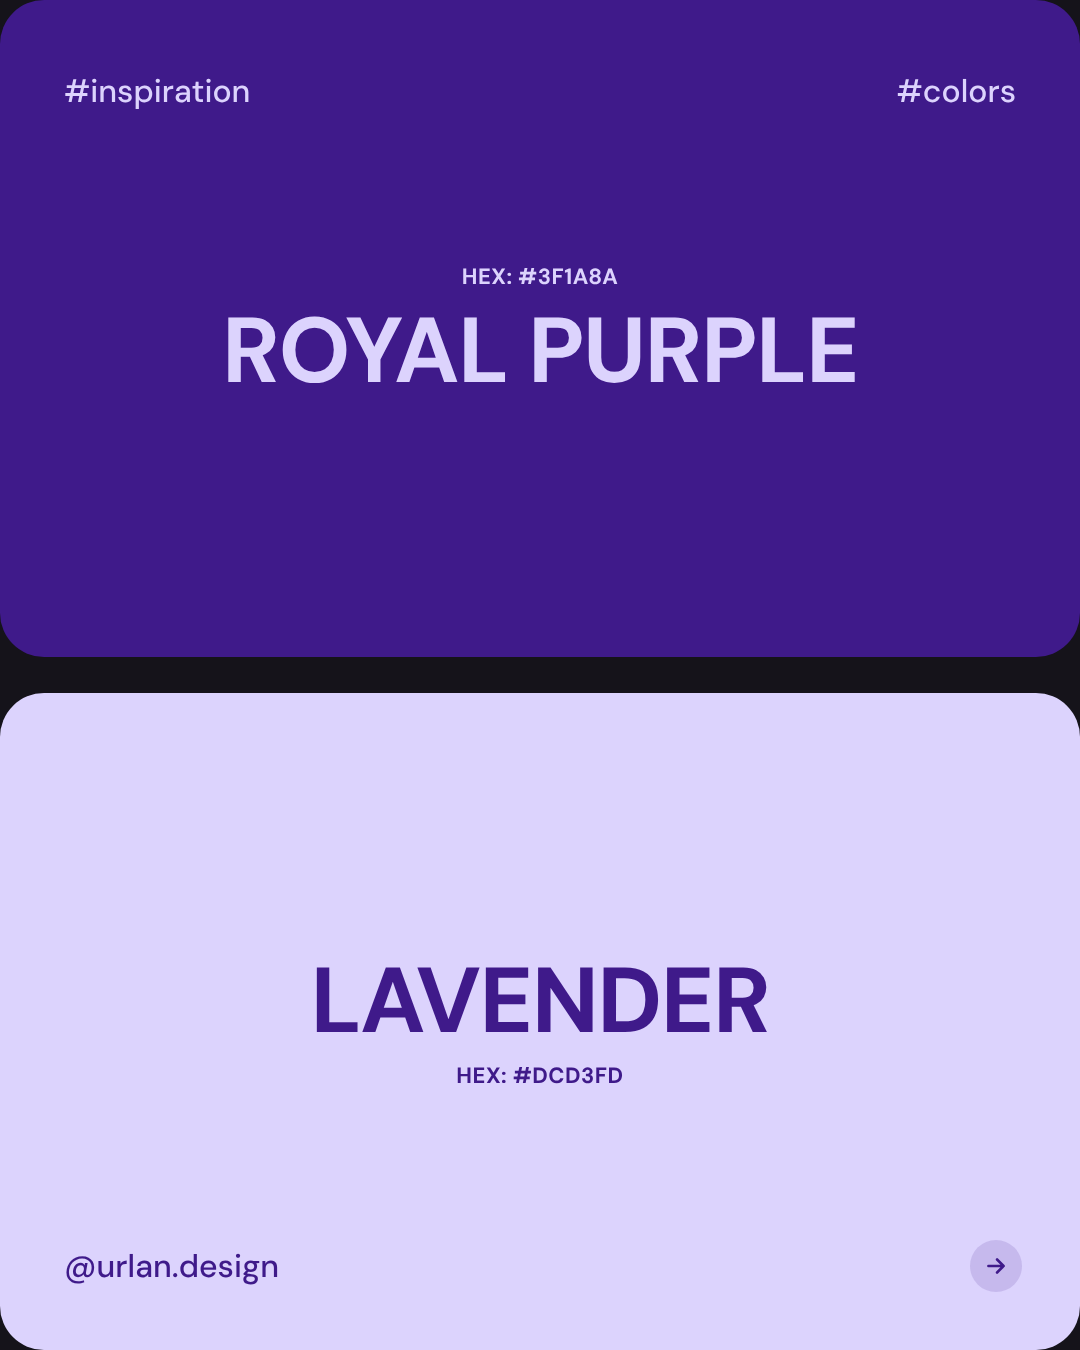
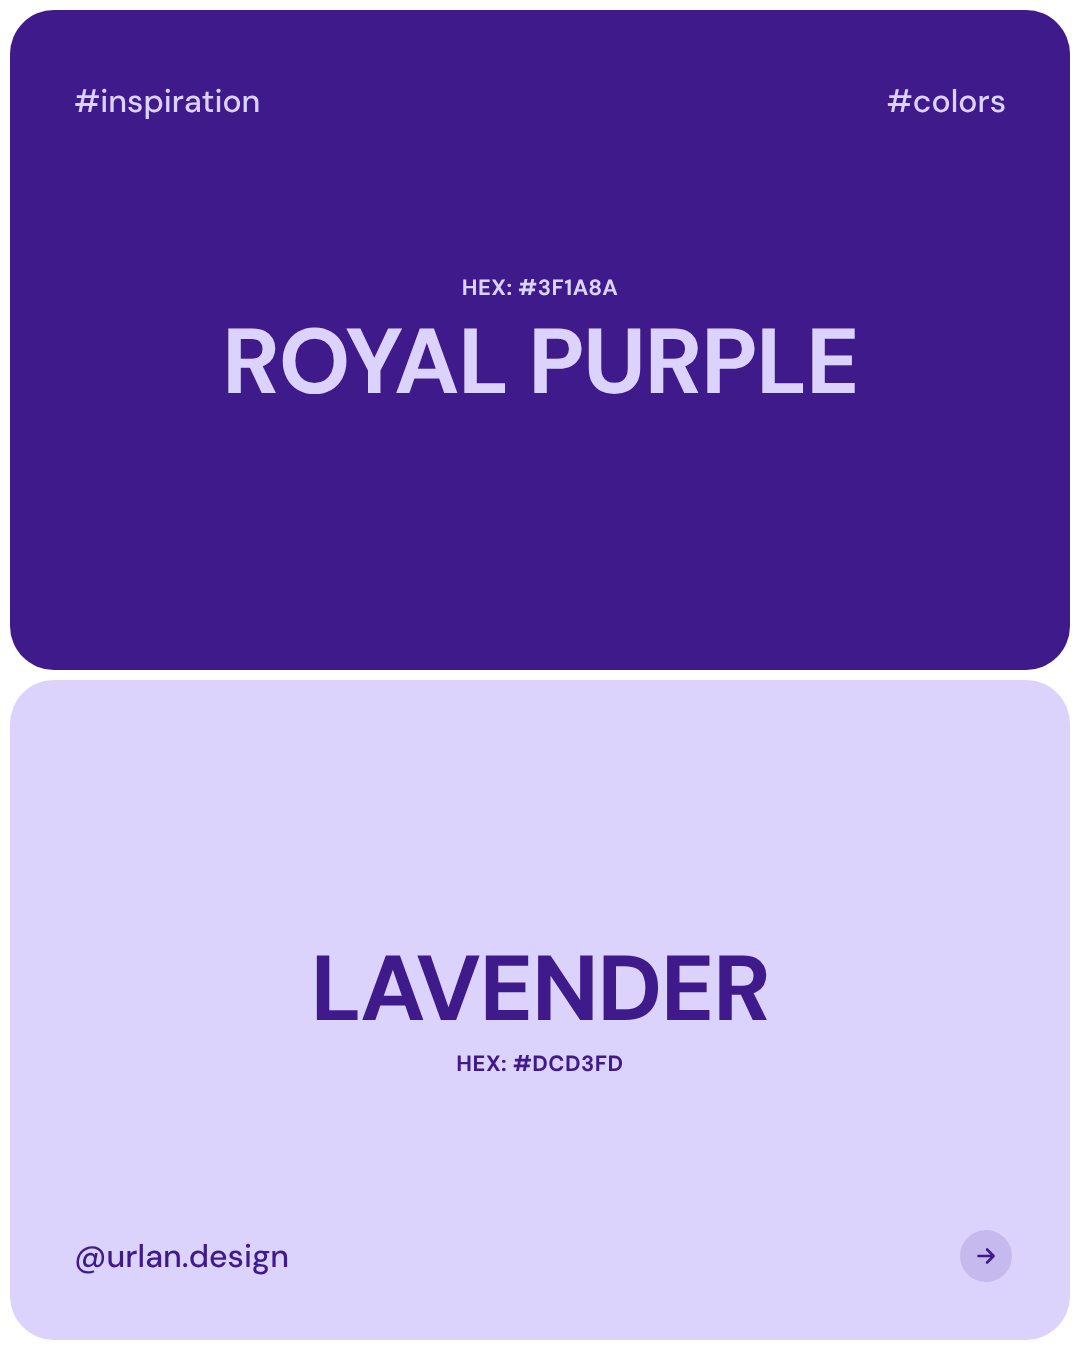
Duplas de cores: fundo transparente, padding e espaço de 10px
Claude-Session: https://claude.ai/code/session_01DwYVZ4p9qWAPLeHrrQbmUv

diff --git a/template/combos.py b/template/combos.py
@@ -21,18 +21,22 @@ FONTS = f"""
 @font-face{{font-family:'DM Sans';font-weight:500;src:url('{(F/'dm-sans-latin-ext-500-normal.woff2').as_uri()}');unicode-range:U+0100-02AF}}
 @font-face{{font-family:'DM Sans';font-weight:800;src:url('{(F/'dm-sans-latin-ext-800-normal.woff2').as_uri()}');unicode-range:U+0100-02AF}}
 @font-face{{font-family:'DM Sans';font-weight:700;src:url('{(F/'dm-sans-latin-ext-700-normal.woff2').as_uri()}');unicode-range:U+0100-02AF}}
-html,body{{margin:0}}
+html,body{{margin:0;background:transparent}}
 .s{{position:relative;width:1080px;height:1350px;overflow:hidden;font-family:'DM Sans',sans-serif}}
 """
 
 ARROW = '<svg width="26" height="26" viewBox="0 0 24 24" fill="none"><path d="M5 12h14M13 6l6 6-6 6" stroke="{c}" stroke-width="2.4" stroke-linecap="round" stroke-linejoin="round"/></svg>'
 
 
+PAD, GAP = 10, 10                      # padding da div externa e espaço entre as duas cores
+CARD_H = (1350 - 2 * PAD - GAP) // 2   # 660
+
+
 def card(name, hexv, bg, fg, top, hex_above, extra=""):
     label = f'<div style="font-weight:700;font-size:22px;letter-spacing:.5px">HEX: {e(hexv.upper())}</div>'
     title = f'<div style="font-weight:700;font-size:92px;line-height:1;letter-spacing:-1.5px;text-transform:uppercase;margin:{"14px 0 0" if hex_above else "0 0 14px"}">{e(name)}</div>'
     inner = (label + title) if hex_above else (title + label)
-    return f'''<div style="position:absolute;left:0;right:0;top:{top}px;height:657px;border-radius:44px;background:{bg};color:{fg}">
+    return f'''<div style="position:absolute;left:{PAD}px;right:{PAD}px;top:{top}px;height:{CARD_H}px;border-radius:44px;background:{bg};color:{fg}">
   <div style="position:absolute;left:0;right:0;top:50%;transform:translateY(-50%);text-align:center">{inner}</div>{extra}</div>'''
 
 
@@ -42,9 +46,9 @@ def combo(pair, gap_bg):
       <span>#inspiration</span><span>#colors</span></div>'''
     foot = f'''<div style="position:absolute;left:64px;right:58px;bottom:58px;display:flex;justify-content:space-between;align-items:center;font-weight:500;font-size:32px;color:{dh}">
       <span>@urlan.design</span><span style="width:52px;height:52px;border-radius:50%;background:{dh}22;display:flex;align-items:center;justify-content:center">{ARROW.format(c=dh)}</span></div>'''
-    return f'''<div class="s" style="background:{gap_bg}">
-  {card(dn, dh, dh, lh, 0, True, tags)}
-  {card(ln, lh, lh, dh, 693, False, foot)}
+    return f'''<div class="s" style="background:transparent">
+  {card(dn, dh, dh, lh, PAD, True, tags)}
+  {card(ln, lh, lh, dh, PAD + CARD_H + GAP, False, foot)}
 </div>'''
 
 
@@ -78,7 +82,8 @@ def main(folder):
             pg.goto(tmp.as_uri())
             pg.evaluate("document.fonts.ready")
             pg.wait_for_timeout(250)
-            pg.screenshot(path=str(folder / f"slide-{i:02d}.png"))
+            # slides de cor saem com fundo transparente (padrão do Figma); o fechamento é opaco
+            pg.screenshot(path=str(folder / f"slide-{i:02d}.png"), omit_background=True)
         b.close()
     (folder / "_tmp.html").unlink(missing_ok=True)
     print(f"{len(pages)} slides em {folder}")
